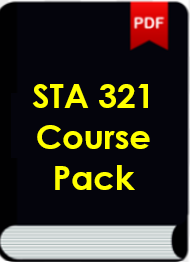
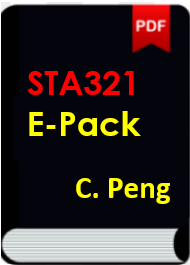
Add files via upload

diff --git a/index.html b/index.html
@@ -136,7 +136,7 @@
                      <li class="navitem active"> <a href="" class="dropdown-item"><b>Office</b></a> <font size="2," color="purple"><center>RM107, 25 Univ. Ave</center></font></li>
                   </ul>
               </li>
-    <li class="navitem active"> <a href="https://pengdsci.github.io/STA321EB/"  target="popup" onclick="window.open('https://pengdsci.github.io/STA321EB/','name','width=900,height=500')" class="nav-link"> <img src = "eBook.png"  width="35" height="45"> </a></li>                    
+    <!--li class="navitem active"> <a href="https://pengdsci.github.io/STA321EB/"  target="popup" onclick="window.open('https://pengdsci.github.io/STA321EB/','name','width=900,height=500')" class="nav-link"> <img src = "eBook.png"  width="35" height="45"> </a></li-->                    
                  
 <!--SSSSSSSSSSSSSSSSSSSSSSSSSSSSSSSSSSSSSSSSSS-->
                </ul>
@@ -159,24 +159,24 @@
 
   <div id="toc-collapse" class="navbar-collapse collapse card bg-secondary">
           <ul class="nav flex-column">
-            <li class="nav-item" data-level="1"><a href="" class="nav-link active">List of Weekly Topics</a>
+            <li class="nav-item" data-level="1"><a href="" class="nav-link active"><center><a href="https://pengdsci.github.io/STA321EB/"  target="popup" onclick="window.open('https://pengdsci.github.io/STA321EB/','name','width=900,height=500')" class="nav-link"> <img src = "eBook.png"  width="75" height="90"> </a></center>
                <ul class="nav flex-column">
                    <div class="a">
-                   <li class="nav-item" data-level="2"><a href="#week01" class="nav-link">1. Tools for computing and reporting </a></li>
+                   <li class="nav-item" data-level="2"><a href="#week01" class="nav-link">1. Computing tools </a></li>
                    <li class="nav-item" data-level="2"><a href="#week02" class="nav-link">2. Nonparametric Bootstrap</a></li>  
-                   <li class="nav-item" data-level="2"><a href="#week03" class="nav-link">3. Simple linear regression</a></li>
-                   <li class="nav-item" data-level="2"><a href="#week04" class="nav-link">4. Multiple linear regression</a></li>
+                   <li class="nav-item" data-level="2"><a href="#week03" class="nav-link">3. SLR </a></li>
+                   <li class="nav-item" data-level="2"><a href="#week04" class="nav-link">4. MLR</a></li>
                    <li class="nav-item" data-level="2"><a href="#week05" class="nav-link">5. Bootstrap regressions</a> </li>
-                   <li class="nav-item" data-level="2"><a href="#week06" class="nav-link">6. Simple logistic regression models </a> </li>   
-                   <li class="nav-item" data-level="2"><a href="#week07" class="nav-link">7. multiple logistic regression models</a></li>
-                   <li class="nav-item" data-level="2"><a href="#week08" class="nav-link">8. Logistic regression: predictive modeling </a></li>
-                   <li class="nav-item" data-level="2"><a href="#week09" class="nav-link">9. Poisson regression models</a></li>
+                   <li class="nav-item" data-level="2"><a href="#week06" class="nav-link">6. Simple logistic model</a> </li>   
+                   <li class="nav-item" data-level="2"><a href="#week07" class="nav-link">7. Multiple logistic model</a></li>
+                   <li class="nav-item" data-level="2"><a href="#week08" class="nav-link">8. Logistic predictive model </a></li>
+                   <li class="nav-item" data-level="2"><a href="#week09" class="nav-link">9. Poisson regression </a></li>
                    <li class="nav-item" data-level="2"><a href="#week10" class="nav-link">10. Quasi-Poisson models </a> </li>	
                    <li class="nav-item" data-level="2"><a href="#week11" class="nav-link">11. Concepts of time series</a> </li>
-				   <li class="nav-item" data-level="2"><a href="#week12" class="nav-link">12. Moving average and LOESS smoothing</a> </li>
-                   <li class="nav-item" data-level="2"><a href="#week13" class="nav-link">13. Exponential smoothing models</a> </li>
+				   <li class="nav-item" data-level="2"><a href="#week12" class="nav-link">12. Moving average and LOESS</a> </li>
+                   <li class="nav-item" data-level="2"><a href="#week13" class="nav-link">13. Exponential smoothing </a> </li>
                    <li class="nav-item" data-level="2"><a href="#week14" class="nav-link">14. Wrapping up project</a> </li>             
-                  <li class="nav-item" data-level="2"><a href="#week15" class="nav-link"> 15. Project report due and presentation</a> </li>
+                  <li class="nav-item" data-level="2"><a href="#week15" class="nav-link"> 15. Project presentation</a> </li>
                    </div>
                 </ul>
              </li>
